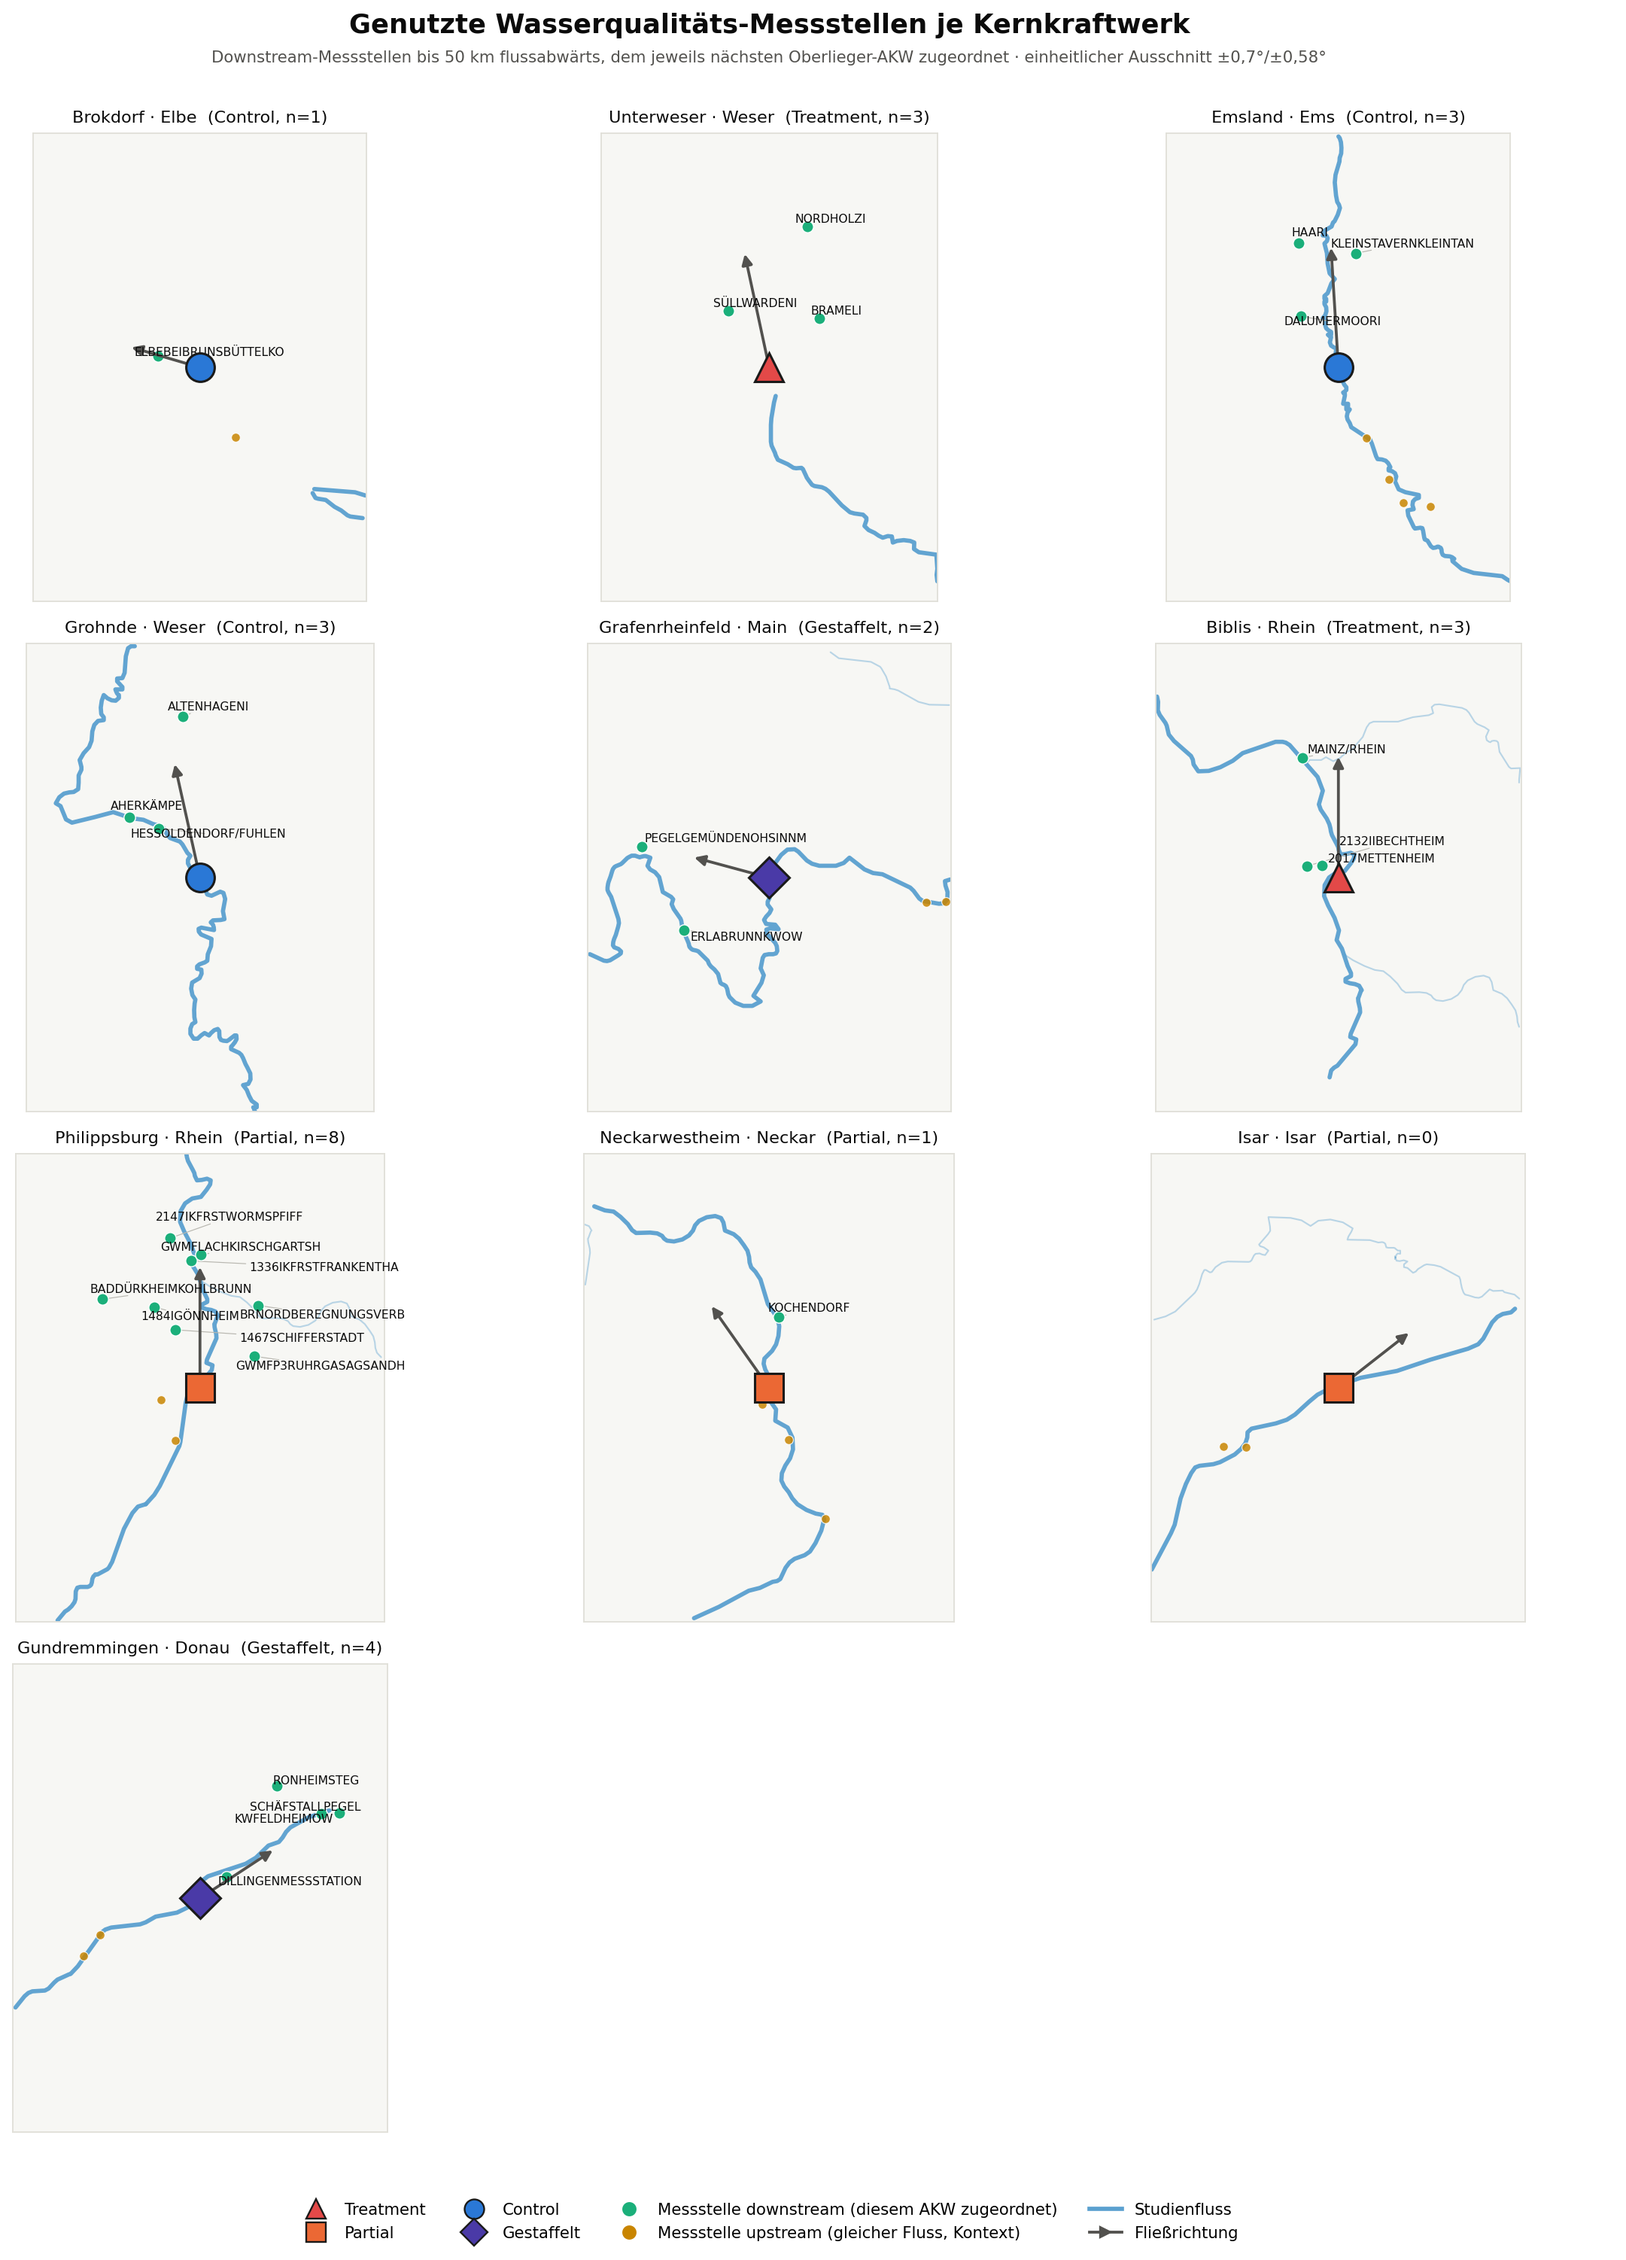
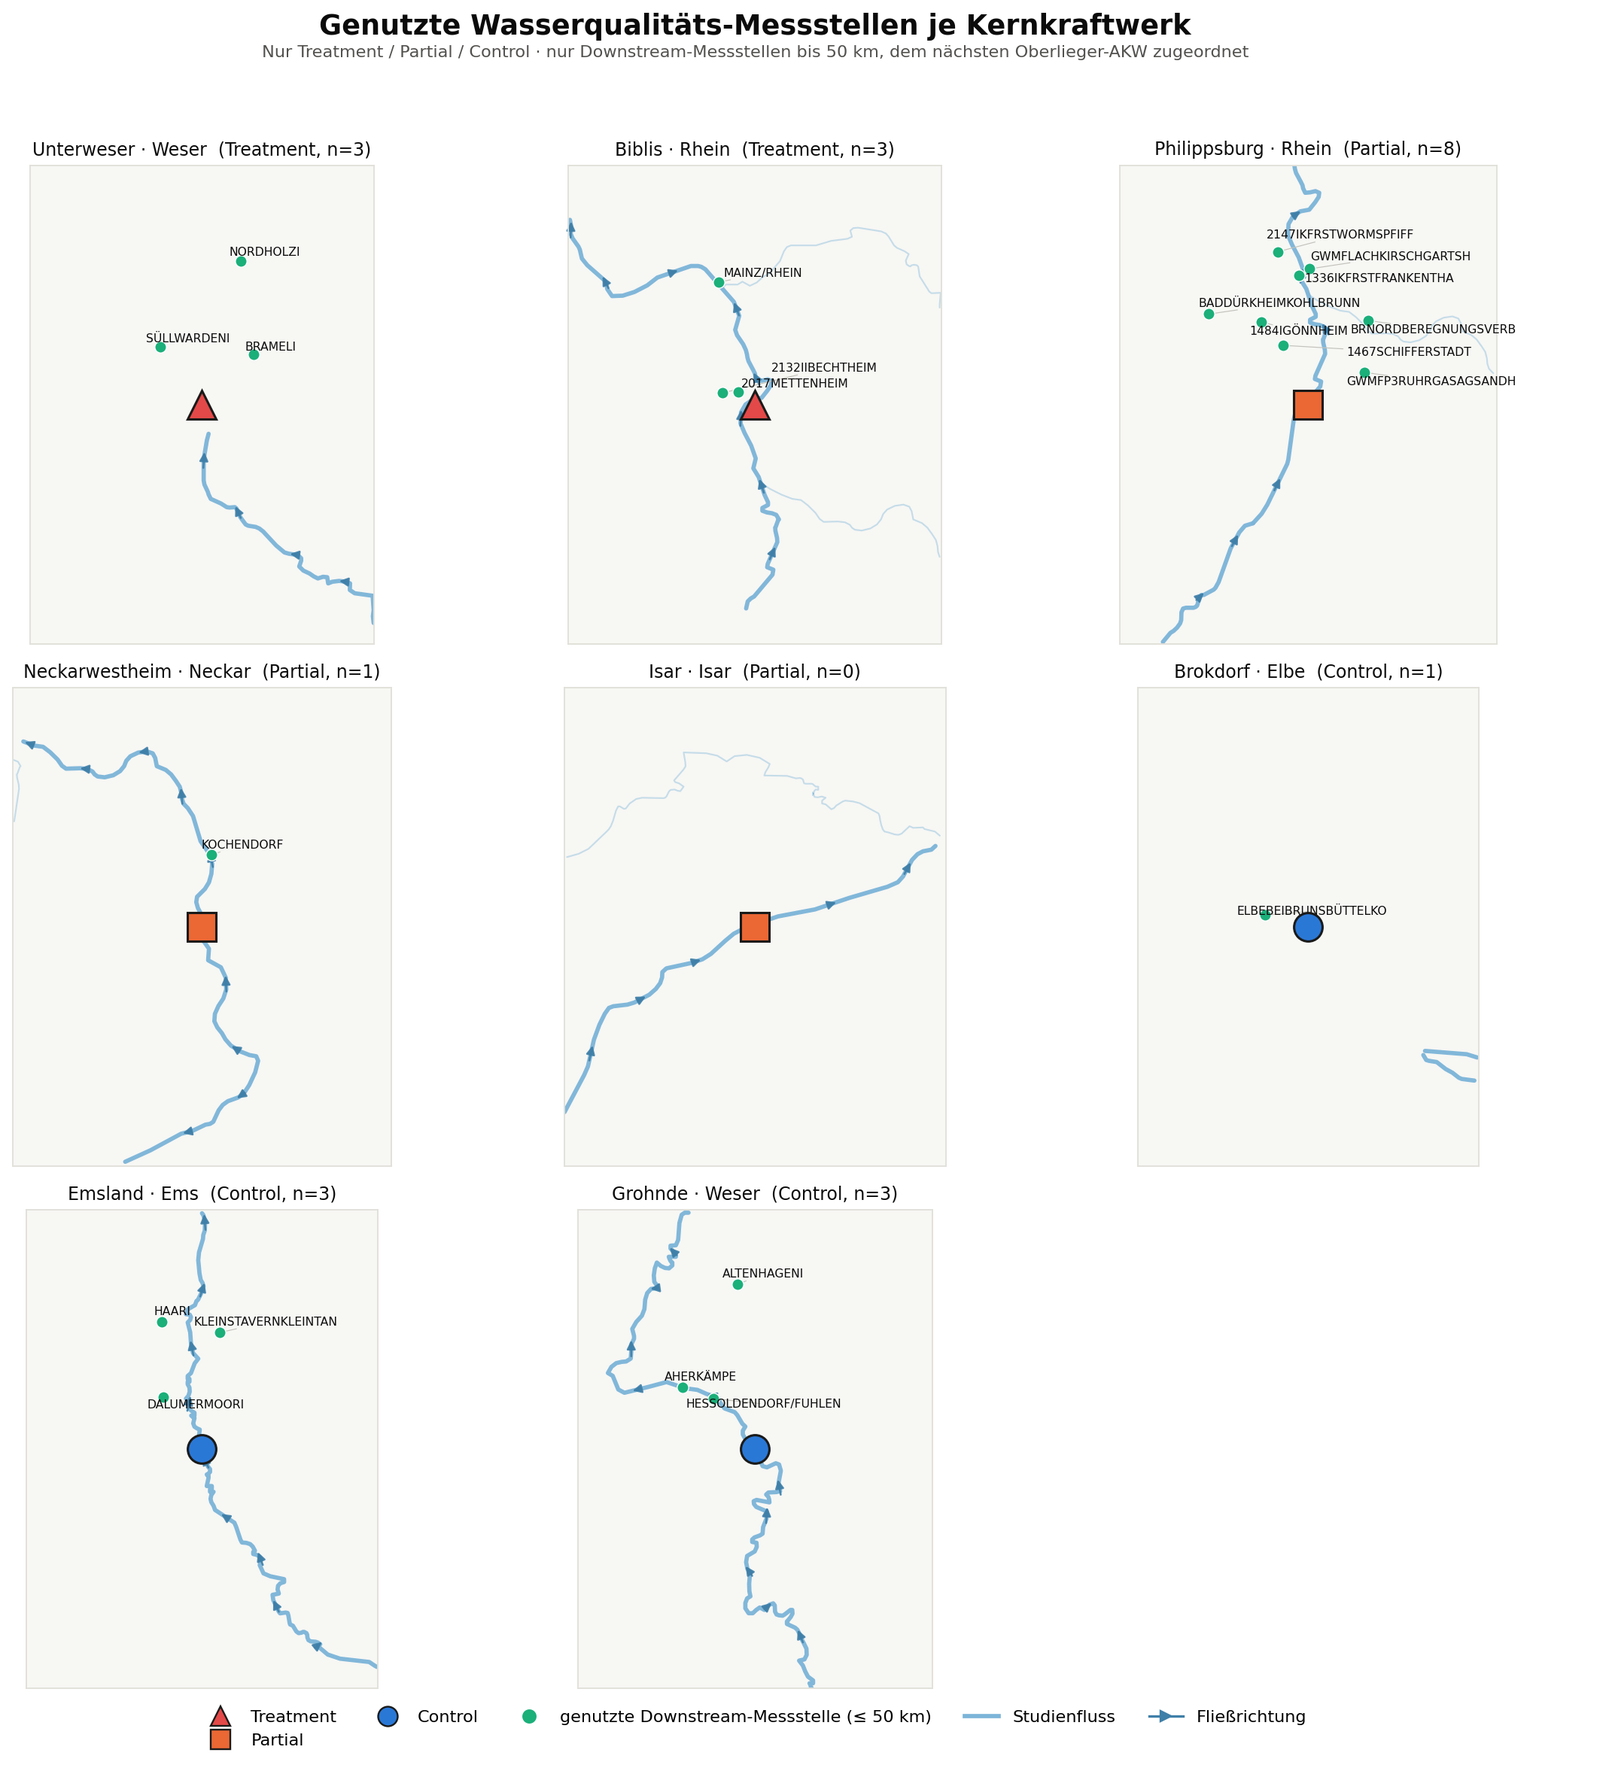
Cleaner per-reactor map: core groups only, used downstream sites, river flow arrows

diff --git a/scripts/make_sites_by_reactor.py b/scripts/make_sites_by_reactor.py
@@ -1,16 +1,17 @@
 """Small-multiple map: one zoomed panel per reactor, showing exactly the
-downstream water-quality monitoring sites attributed to that reactor.
+downstream water-quality monitoring sites the analysis uses for that reactor.
 
-Each downstream site is assigned to the reactor immediately upstream of it (its
-nearest_upstream_plant), so every site appears in exactly one panel and the
-"which site belongs to which reactor" question has a clean answer. Upstream
-same-river sites are drawn faintly for context. Each panel names its river and
-labels every attributed site.
+Only the core groups are shown (treatment / partial / control); the staggered
+sites (Grafenrheinfeld, Gundremmingen) are left out because they are neither a
+clean 2011 treatment nor a full-window control. Each downstream site (<= 50 km)
+is attributed to the reactor immediately upstream of it and labelled in that
+reactor's panel. The river is named and carries small arrows showing flow
+direction.
 
     python scripts/make_sites_by_reactor.py
 
-Writes figures/study_sites_by_reactor.png. Uses matplotlib; if the optional
-`adjustText` package is installed the labels are de-overlapped automatically.
+Writes figures/study_sites_by_reactor.png. Uses matplotlib; the optional
+`adjustText` package de-overlaps the labels if installed.
 """
 
 import math
@@ -23,13 +24,11 @@ import matplotlib
 matplotlib.use("Agg")
 import matplotlib.pyplot as plt
 from matplotlib.lines import Line2D
-from matplotlib.patches import FancyArrowPatch
 
 ROOT = Path(__file__).resolve().parents[1]
 sys.path.insert(0, str(ROOT / "scripts"))
 
 import mapdata  # noqa: E402
-from pipeline.geo import haversine_km  # noqa: E402
 
 try:
     from adjustText import adjust_text
@@ -40,17 +39,17 @@ except Exception:
 OUT = ROOT / "figures" / "study_sites_by_reactor.png"
 
 GROUP_STYLE = {
-    "treatment":           ("#e34948", "^", "Treatment"),
-    "partial":             ("#eb6834", "s", "Partial"),
-    "control":             ("#2a78d6", "o", "Control"),
-    "staggered_treatment": ("#4a3aa7", "D", "Gestaffelt"),
+    "treatment": ("#e34948", "^", "Treatment"),
+    "partial":   ("#eb6834", "s", "Partial"),
+    "control":   ("#2a78d6", "o", "Control"),
 }
+CORE_ORDER = ["treatment", "partial", "control"]
 RIVER_DE = {"Rhine": "Rhein", "Danube": "Donau", "Elbe": "Elbe", "Weser": "Weser",
             "Ems": "Ems", "Main": "Main", "Neckar": "Neckar", "Isar": "Isar"}
-RIVER_COLOR = "#5aa0cf"
-DOWN, UP, INK, SECONDARY = "#1baf7a", "#c98500", "#0b0b0b", "#52514e"
+RIVER_COLOR = "#7bb4d8"
+ARROW = "#3f7fa8"
+DOWN, INK, SECONDARY = "#1baf7a", "#0b0b0b", "#52514e"
 
-# Uniform panel half-extent (degrees) and the downstream bands we show/attribute.
 DLON, DLAT = 0.70, 0.58
 NEAR_BANDS = {"0-10", "10-25", "25-50"}  # <= 50 km downstream = plausibly exposed
 
@@ -64,29 +63,40 @@ def clean(name: str) -> str:
 
 
 def attribute(water, sites):
-    """downstream site -> reactor site name (nearest upstream plant);
-    upstream site -> nearest same-river reactor. Returns two dicts of lists."""
-    by_river = {}
-    for s in sites:
-        by_river.setdefault(s["river"], []).append(s)
-    downstream = {s["name"]: [] for s in sites}
-    upstream = {s["name"]: [] for s in sites}
+    """downstream site (<=50 km) -> the core reactor immediately upstream of it."""
+    down = {s["name"]: [] for s in sites}
     for w in water:
-        if w["position"] == "downstream" and w["plant"]:
-            if w.get("band") not in NEAR_BANDS:  # skip sites >50 km downstream
-                continue
-            key = short_site(w["plant"])
-            if key in downstream:
-                downstream[key].append(w)
-        else:
-            candidates = by_river.get(w["river"], [])
-            if candidates:
-                nearest = min(candidates, key=lambda s: haversine_km(w["lat"], w["lon"], s["lat"], s["lon"]))
-                upstream[nearest["name"]].append(w)
-    return downstream, upstream
+        if w["position"] != "downstream" or not w["plant"]:
+            continue
+        if w.get("band") not in NEAR_BANDS:
+            continue
+        key = short_site(w["plant"])
+        if key in down:  # only core (treatment/partial/control) reactors
+            down[key].append(w)
+    return down
 
 
-def draw_panel(ax, site, rivers, down, up):
+def flow_arrows(ax, seg, flow):
+    """Small arrowheads along a river polyline, pointing downstream."""
+    ue, un = flow
+    acc, step = 0.0, 0.16
+    for i in range(1, len(seg)):
+        (x0, y0), (x1, y1) = seg[i - 1], seg[i]
+        latm = math.radians((y0 + y1) / 2)
+        acc += math.hypot((x1 - x0) * math.cos(latm), y1 - y0)
+        if acc < step:
+            continue
+        acc = 0.0
+        dx, dy = x1 - x0, y1 - y0
+        if (dx * math.cos(latm)) * ue + dy * un < 0:  # orient downstream
+            dx, dy = -dx, -dy
+        norm = math.hypot(dx, dy) or 1.0
+        ux, uy, mx, my, e = dx / norm, dy / norm, (x0 + x1) / 2, (y0 + y1) / 2, 0.028
+        ax.annotate("", xy=(mx + ux * e, my + uy * e), xytext=(mx - ux * e, my - uy * e),
+                    arrowprops=dict(arrowstyle="-|>", color=ARROW, lw=1.1, alpha=0.9), zorder=2)
+
+
+def draw_panel(ax, site, rivers, down):
     box = (site["lon"] - DLON, site["lon"] + DLON, site["lat"] - DLAT, site["lat"] + DLAT)
 
     for river, lines in rivers.items():
@@ -97,42 +107,26 @@ def draw_panel(ax, site, rivers, down, up):
                 ax.plot([p[0] for p in seg], [p[1] for p in seg], color=RIVER_COLOR,
                         lw=2.4 if own else 0.9, alpha=0.95 if own else 0.4,
                         solid_capstyle="round", zorder=1)
-
-    def inside(w):
-        return box[0] <= w["lon"] <= box[1] and box[2] <= w["lat"] <= box[3]
-
-    for w in up:  # context only, no label
-        if inside(w):
-            ax.plot(w["lon"], w["lat"], "o", ms=5, mfc=UP, mec="white", mew=0.5, alpha=0.85, zorder=2)
+                if own and site["flow"]:
+                    flow_arrows(ax, seg, site["flow"])
 
     texts = []
     for w in down:
-        if not inside(w):
+        if not (box[0] <= w["lon"] <= box[1] and box[2] <= w["lat"] <= box[3]):
             continue
         ax.plot(w["lon"], w["lat"], "o", ms=6.5, mfc=DOWN, mec="white", mew=0.6, zorder=3)
-        label = clean(w["name"]) or w["id"][-6:]
-        texts.append(ax.text(w["lon"], w["lat"], label, fontsize=6.6, color=INK, zorder=5))
-
-    if site["flow"]:
-        ue, un = site["flow"]
-        span = box[1] - box[0]
-        ax.add_patch(FancyArrowPatch((site["lon"], site["lat"]),
-                                     (site["lon"] + ue * span * 0.22, site["lat"] + un * span * 0.22),
-                                     arrowstyle="-|>", mutation_scale=12, lw=1.6, color=SECONDARY, zorder=4))
+        texts.append(ax.text(w["lon"], w["lat"], clean(w["name"]) or w["id"][-6:],
+                             fontsize=6.6, color=INK, zorder=5))
 
     color, marker, glabel = GROUP_STYLE[site["group"]]
     ax.plot(site["lon"], site["lat"], marker=marker, ms=16, mfc=color, mec="#1a1a19", mew=1.3, zorder=6)
 
     if HAVE_ADJUST and texts:
-        adjust_text(texts, ax=ax, expand=(1.1, 1.3),
-                    arrowprops=dict(arrowstyle="-", color="#b8b7b0", lw=0.5))
-    else:
-        for t in texts:
-            t.set_position((t.get_position()[0] + (box[1] - box[0]) * 0.012,
-                            t.get_position()[1] + (box[3] - box[2]) * 0.012))
+        adjust_text(texts, ax=ax, expand=(1.1, 1.35),
+                    arrowprops=dict(arrowstyle="-", color="#c3c2bb", lw=0.5))
 
     ax.set_title(f"{site['name']} · {RIVER_DE.get(site['river'], site['river'])}  "
-                 f"({glabel}, n={len(down)})", fontsize=9.5, color=INK, weight="medium")
+                 f"({glabel}, n={len(down)})", fontsize=10, color=INK, weight="medium")
     ax.set_xlim(box[0], box[1])
     ax.set_ylim(box[2], box[3])
     ax.set_aspect(1.0 / math.cos(math.radians(site["lat"])))
@@ -144,48 +138,44 @@ def draw_panel(ax, site, rivers, down, up):
 
 def main() -> None:
     rivers = mapdata.study_rivers()
-    sites = [s for s in mapdata.study_sites() if s["group"] != "excluded"]
+    sites = [s for s in mapdata.study_sites() if s["group"] in GROUP_STYLE]
+    sites.sort(key=lambda s: (CORE_ORDER.index(s["group"]), -s["lat"]))
     water = mapdata.used_water_sites()
-    down, up = attribute(water, sites)
-    sites.sort(key=lambda s: -s["lat"])  # north to south
+    down = attribute(water, sites)
 
     ncols, nrows = 3, math.ceil(len(sites) / 3)
-    fig, axes = plt.subplots(nrows, ncols, figsize=(13.5, 4.4 * nrows), dpi=170)
+    fig, axes = plt.subplots(nrows, ncols, figsize=(13.5, 4.6 * nrows), dpi=170)
     fig.patch.set_facecolor("#ffffff")
     axes = axes.flatten()
 
     for ax, site in zip(axes, sites):
         ax.set_facecolor("#f7f7f4")
-        draw_panel(ax, site, rivers, down[site["name"]], up[site["name"]])
+        draw_panel(ax, site, rivers, down[site["name"]])
     for ax in axes[len(sites):]:
         ax.axis("off")
 
     handles = [
         Line2D([0], [0], marker=GROUP_STYLE[g][1], color="none", markerfacecolor=GROUP_STYLE[g][0],
                markeredgecolor="#1a1a19", markersize=11, label=GROUP_STYLE[g][2])
-        for g in ("treatment", "partial", "control", "staggered_treatment")
+        for g in CORE_ORDER
     ] + [
         Line2D([0], [0], marker="o", color="none", markerfacecolor=DOWN, markeredgecolor="white",
-               markersize=9, label="Messstelle downstream (diesem AKW zugeordnet)"),
-        Line2D([0], [0], marker="o", color="none", markerfacecolor=UP, markeredgecolor="white",
-               markersize=9, label="Messstelle upstream (gleicher Fluss, Kontext)"),
+               markersize=9, label="genutzte Downstream-Messstelle (≤ 50 km)"),
         Line2D([0], [0], color=RIVER_COLOR, lw=2.4, label="Studienfluss"),
-        Line2D([0], [0], color=SECONDARY, lw=1.6, marker=">", markersize=6, label="Fließrichtung"),
+        Line2D([0], [0], color=ARROW, lw=1.4, marker=">", markersize=6, label="Fließrichtung"),
     ]
-    fig.legend(handles=handles, loc="lower center", ncol=4, fontsize=9, frameon=False,
-               bbox_to_anchor=(0.5, 0.004))
+    fig.legend(handles=handles, loc="lower center", ncol=5, fontsize=9.5, frameon=False,
+               bbox_to_anchor=(0.5, 0.008))
 
-    note = "" if HAVE_ADJUST else "  (Tipp: 'pip install adjustText' entzerrt die Beschriftungen automatisch)"
     fig.suptitle("Genutzte Wasserqualitäts-Messstellen je Kernkraftwerk",
-                 fontsize=15, weight="bold", color=INK, y=1.0)
-    fig.text(0.5, 0.978, "Downstream-Messstellen bis 50 km flussabwärts, dem jeweils nächsten "
-             "Oberlieger-AKW zugeordnet · einheitlicher Ausschnitt ±0,7°/±0,58°",
-             ha="center", fontsize=9, color=SECONDARY)
-    fig.tight_layout(rect=(0, 0.05, 1, 0.985))
+                 fontsize=15.5, weight="bold", color=INK, y=1.0)
+    fig.text(0.5, 0.975, "Nur Treatment / Partial / Control · nur Downstream-Messstellen bis 50 km, "
+             "dem nächsten Oberlieger-AKW zugeordnet", ha="center", fontsize=9.5, color=SECONDARY)
+    fig.tight_layout(rect=(0, 0.04, 1, 0.965))
     OUT.parent.mkdir(parents=True, exist_ok=True)
     fig.savefig(OUT, dpi=170, bbox_inches="tight", facecolor="#ffffff")
-    total_down = sum(len(v) for v in down.values())
-    print(f"panels: {len(sites)} | downstream attributed: {total_down} | adjustText: {HAVE_ADJUST}{note}")
+    total = sum(len(v) for v in down.values())
+    print(f"panels: {len(sites)} | downstream used: {total} | adjustText: {HAVE_ADJUST}")
     print(f"wrote {OUT}")
 
 

diff --git a/data/processed/METHODS.md b/data/processed/METHODS.md
@@ -204,7 +204,8 @@ small, which the analysis must acknowledge.
 3. Coverage gaps: water temperature (Waterbase annual) has no 2006/2007/2015 and is sparse; weather now spans the full window. The small downstream sample (§4.6) is the binding constraint.
 4. Modelling level: reactor vs. site is a deliberate choice (§3.2); fix and justify it in the analysis.
 5. Flow direction for the up/downstream split is a per-river heuristic (§4.6); replace it with true river kilometres from a river network for the final version.
-6. Statistical power: after same-river/downstream matching, only single digits of stations sit downstream of a full treatment. Consider (a) a graded "downstream-of-shutdown" treatment pooling treatment/partial/staggered with distance or discharge as the dose, and (b) the Waterbase *disaggregated* data (Part 1) for many more observations and a summer/low-flow analysis, where the thermal effect is largest.
+6. Staggered sites (Grafenrheinfeld 2015, Gundremmingen 2017) are **excluded from the core 2011 DiD**: they are neither a clean 2011 treatment nor a full-window control, and dropping them removes the Main and Danube reaches, which carry no other study reactor. They are kept in `group_assignment.csv` and can serve a separate staggered/event-study robustness check.
+7. Statistical power: after same-river/downstream matching (≤ 50 km, core groups only) the used sample is small — 22 downstream sites across 8 reactors, and single digits per site. Consider (a) the Waterbase *disaggregated* data (Part 1) for many more observations and a summer/low-flow analysis, where the thermal effect is largest, and (b) discharge as a continuous exposure/intensity term.
 
 ## 7. Reproducibility
 
@@ -254,9 +255,10 @@ the same river in amber); off-river sites within the radius are hidden.
   strict CSP.
 - `scripts/make_sites_by_reactor.py` → `figures/study_sites_by_reactor.png`, a
   small-multiple map (one panel per reactor) that makes the site-to-reactor
-  assignment explicit: each downstream site (≤ 50 km) is attributed to the
-  reactor immediately upstream of it and labelled in that reactor's panel;
-  upstream same-river sites are shown faintly for context. Optional dependency
-  `adjustText` de-overlaps the labels.
+  assignment explicit. It shows only the **core** groups (treatment / partial /
+  control) and, per reactor, only the monitoring sites the analysis actually
+  uses: the downstream sites within 50 km attributed to the reactor immediately
+  upstream of them. The river is named and carries small arrows for flow
+  direction. Optional dependency `adjustText` de-overlaps the labels.
 
 The maps download the outline and river geometry once from public sources.
